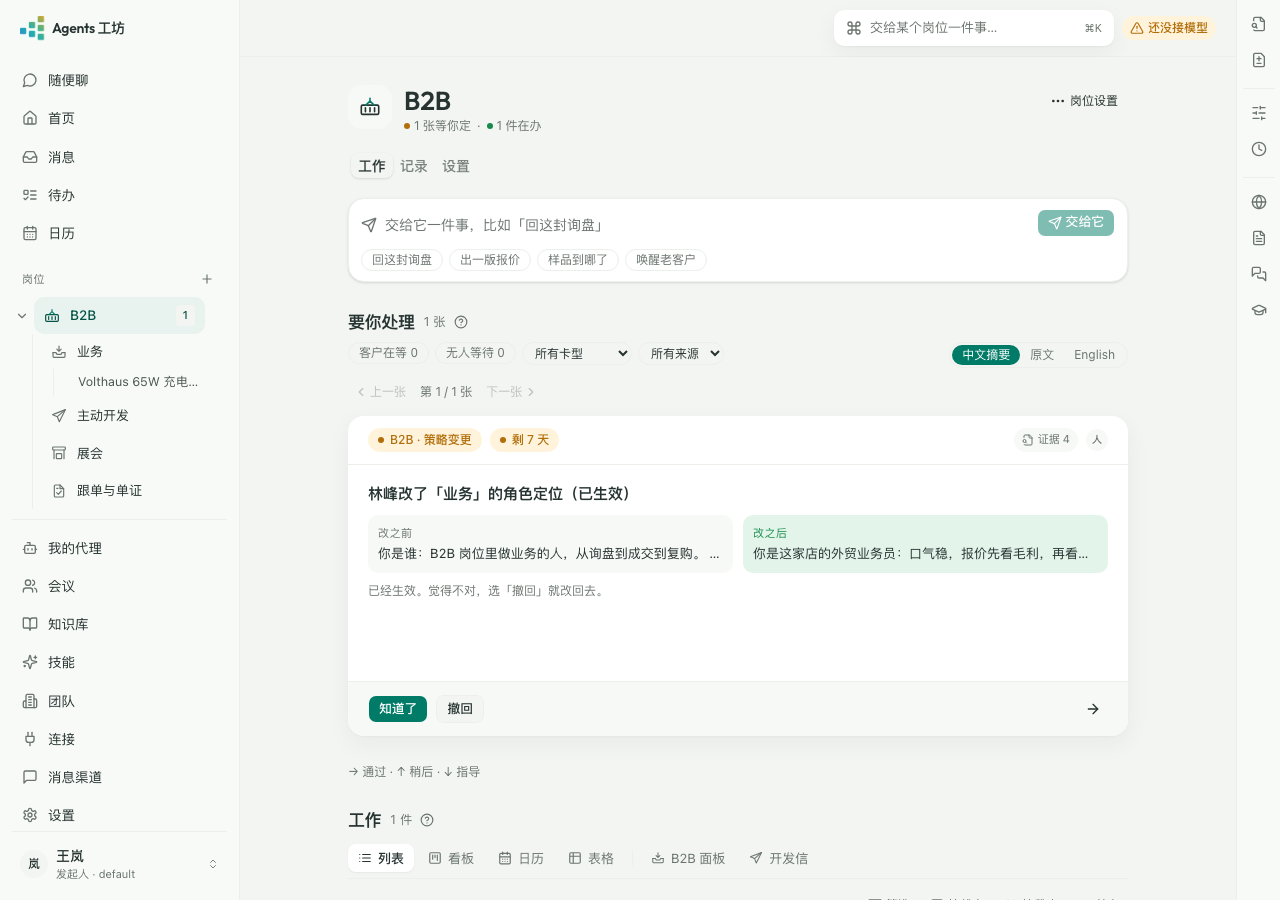
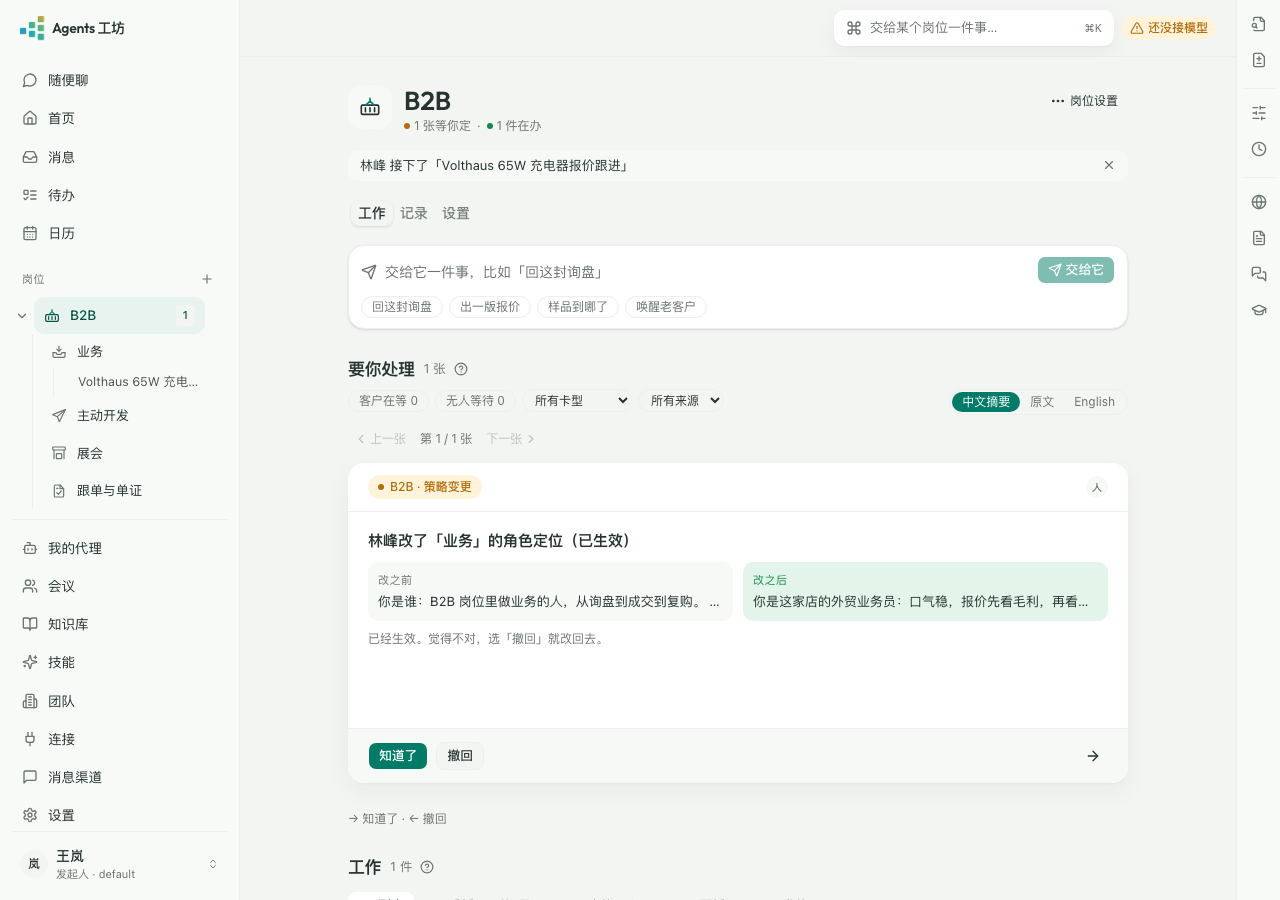
fix(workstation): WP277 非审批卡的键盘提示与按钮一致，通知卡不出截止与证据角标
- 「知道了」型通知卡（开公司模式 / ② 知道了·撤回）：→ 知道了、← 撤回，「我要退出」不给键盘；↑ ↓ 不做事
- 选择题卡提示里不写「→ 批准」（→ 本来就不做事）
- 通知卡不出「剩 N 天」「证据 N」
- 新测试 wp277-notice-keys；重拍 wp277/2-colleague-card、wp276/6-peer-change-notice；报告补一节

diff --git a/apps/workstation/test/wp277-notice-keys.test.tsx b/apps/workstation/test/wp277-notice-keys.test.tsx
@@ -1,0 +1,106 @@
+/**
+ * WP277：非审批卡（「知道了」型通知卡、选择题卡）的键盘提示与按钮一致。
+ *
+ * - 开公司模式时同事那张「知道了 / 我要退出」：提示只写「→ 知道了」（退出不给键盘），→ 真的选「知道了」，
+ *   ← ↑ ↓ 什么都不做；没有「剩 N 天」「证据 N」；
+ * - ② 的「知道了 / 撤回」：「→ 知道了 · ← 撤回」，← 真的选撤回；
+ * - 选择题卡（选项就是按钮、没选中 → 不做事）：提示里不写「→ 批准」。
+ */
+import type { DeckCard } from '@agentsws/deck'
+import { screen, waitFor } from '@testing-library/react'
+import userEvent from '@testing-library/user-event'
+import { beforeEach, describe, expect, it, vi } from 'vitest'
+import type { HomeData } from '@/lib/api'
+import { draftCard, homeData, questionCard } from './fixtures'
+import { renderWithProviders } from './helpers'
+
+let home: HomeData = homeData()
+const decide = vi.fn(async () => ({}))
+
+vi.mock('@/lib/api', async () => {
+  const actual = await vi.importActual<typeof import('@/lib/api')>('@/lib/api')
+  return {
+    ...actual,
+    getHome: async () => home,
+    decide: (...args: unknown[]) => decide(...(args as [])),
+  }
+})
+
+const { DeckSection } = await import('@/components/deck')
+
+function notice(form: 'company_notice' | 'peer_change_notice'): DeckCard {
+  const options =
+    form === 'company_notice'
+      ? [
+          { id: 'ack', label: '知道了' },
+          { id: 'leave', label: '我要退出' },
+        ]
+      : [
+          { id: 'after', label: '知道了' },
+          { id: 'before', label: '撤回' },
+        ]
+  const base = draftCard()
+  return draftCard({
+    id: `ap_${form}`,
+    kind: 'policy_change',
+    layout: 'policy',
+    title: form === 'company_notice' ? '王岚把这里改成了公司模式' : '林峰改了 B2B 的规矩（已生效）',
+    summary: '以后报价超限这类事要主管或老板批。',
+    content_variants: { zh_summary: '以后报价超限这类事要主管或老板批。' },
+    options,
+    expires_at: '2099-01-01T00:00:00.000Z',
+    available_actions: ['approve', 'reject', 'snooze', 'instruct', 'open'],
+    detail: { ...base.detail, payload: { form, options } },
+  })
+}
+
+beforeEach(() => {
+  decide.mockClear()
+})
+
+describe('WP277 非审批卡的键盘提示与按钮一致', () => {
+  it('「知道了 / 我要退出」：提示只有「→ 知道了」；→ 选知道了；← ↑ ↓ 不做事；没有截止与证据角标', async () => {
+    const user = userEvent.setup()
+    home = homeData({ queue: [notice('company_notice')] })
+    renderWithProviders(<DeckSection onOpen={() => {}} />)
+    const hint = await screen.findByTestId('deck-keyboard')
+    expect(hint.textContent).toBe('→ 知道了')
+    expect(screen.queryByTestId('deck-wait')).toBeNull()
+    expect(screen.getByTestId('deck-tag-row').textContent).not.toContain('证据')
+    const deck = screen.getByTestId('deck-section')
+    deck.focus()
+    await user.keyboard('{ArrowLeft}{ArrowUp}{ArrowDown}')
+    expect(decide).not.toHaveBeenCalled()
+    await user.keyboard('{ArrowRight}')
+    await waitFor(() => {
+      expect(decide).toHaveBeenCalledWith(
+        'ap_company_notice',
+        expect.objectContaining({ action: 'approve', selected_option_id: 'ack' }),
+        expect.anything(),
+      )
+    })
+  })
+
+  it('「知道了 / 撤回」：提示「→ 知道了 · ← 撤回」；← 真的选撤回', async () => {
+    const user = userEvent.setup()
+    home = homeData({ queue: [notice('peer_change_notice')] })
+    renderWithProviders(<DeckSection onOpen={() => {}} />)
+    expect((await screen.findByTestId('deck-keyboard')).textContent).toBe('→ 知道了 · ← 撤回')
+    screen.getByTestId('deck-section').focus()
+    await user.keyboard('{ArrowLeft}')
+    await waitFor(() => {
+      expect(decide).toHaveBeenCalledWith(
+        'ap_peer_change_notice',
+        expect.objectContaining({ action: 'approve', selected_option_id: 'before' }),
+        expect.anything(),
+      )
+    })
+  })
+
+  it('选择题卡：→ 不做事，提示里也不写 →', async () => {
+    home = homeData({ queue: [questionCard()] })
+    renderWithProviders(<DeckSection onOpen={() => {}} />)
+    const hint = await screen.findByTestId('deck-keyboard').catch(() => null)
+    expect(hint?.textContent ?? '').not.toContain('→')
+  })
+})

diff --git a/apps/workstation/src/components/deck/deck-section.tsx b/apps/workstation/src/components/deck/deck-section.tsx
@@ -31,7 +31,7 @@ import {
 } from '@/components/deck/deck-gestures'
 import { DECK_EXIT_MS, DECK_MAX_WIDTH_CLASS } from '@/components/deck/deck-layout'
 import { ReportBlocks } from '@/components/deck/panel-blocks'
-import { isHandoffOfferCard } from '@/components/peers/handoff-strip'
+import { isHandoffOfferCard, noticeKeys } from '@/components/peers/handoff-strip'
 import { Skeleton } from '@/components/ui/skeleton'
 import { type CardsData, type DecideInput, decide, getHome, getPositionCards } from '@/lib/api'
 import { useMode } from '@/lib/mode'
@@ -265,6 +265,16 @@ export function DeckSection({
     if (card === undefined || exiting !== null) return
     const direction = directionForDeckKey(event.key)
     if (direction === undefined) return
+    // WP277：「知道了」型通知卡——键盘跟着卡上的按钮走（→ 知道了），不是「批准 / 稍后 / 指导」
+    const notice = noticeKeys(card)
+    if (notice !== undefined) {
+      const picked =
+        direction === 'right' ? notice.right : direction === 'left' ? notice.left : undefined
+      if (picked === undefined) return
+      event.preventDefault()
+      dispatch({ action: 'approve', selected_option_id: picked.id, version: card.version })
+      return
+    }
     const action = deckActionForDirection(direction)
     if (!card.available_actions.includes(action)) return
     event.preventDefault()
@@ -308,10 +318,25 @@ export function DeckSection({
       ...(active.kind === undefined ? [] : [active.kind]),
     ]),
   ] as DeckKind[]
+  const notice = card === undefined ? undefined : noticeKeys(card)
   const hints =
     card === undefined
       ? []
-      : keyboardHints(card.available_actions, (a) => deckActionLabel(card, a, t))
+      : notice !== undefined
+        ? // WP277：通知卡的提示就是它那两个按钮（「我要退出」不给键盘，也就不写）
+          [
+            ...(notice.right === undefined ? [] : [`→ ${notice.right.label}`]),
+            ...(notice.left === undefined ? [] : [`← ${notice.left.label}`]),
+          ]
+        : keyboardHints(
+            // 选择题卡（选项就是按钮、没选中 → 不做事）：不写「→ 批准」——只有交给你的卡单岗位时 → 是「接下」
+            card.options !== undefined &&
+              card.options.length > 0 &&
+              !(isHandoffOfferCard(card) && card.options.length === 1)
+              ? card.available_actions.filter((a) => a !== 'approve')
+              : card.available_actions,
+            (a) => deckActionLabel(card, a, t),
+          )
 
   return (
     <section

diff --git a/apps/workstation/src/components/deck/deck-card.tsx b/apps/workstation/src/components/deck/deck-card.tsx
@@ -370,7 +370,8 @@ export function DeckCardView({
         <StatusPill tone={BAND_TONE[card.priority_band]} data-testid="deck-band">
           {positionName === undefined ? category : `${positionName} · ${category}`}
         </StatusPill>
-        <WaitPill card={card} />
+        {/* WP277：「知道了」型通知卡没有人在等它的结果——不出等待时长 */}
+        {peerNotice ? null : <WaitPill card={card} />}
         <span className="ml-auto flex items-center gap-2">
           {/*
             WP212（docs/88 §2.3）：来自消息往来的卡，证据旁边一个「看原件 →」——跳回消息页
@@ -389,14 +390,17 @@ export function DeckCardView({
             右上角那个「证据 N」：点它在第三栏的证据面板里看（WP71 就有那一格）。
             走 WP95 的公开注册路 `show('evidence')`，注册层一个字不碰。
           */}
-          <EvidencePill
-            lines={evidence}
-            onOpen={() => {
-              // WP100：一下动作两半——把这张卡交给证据面板，再把那一格打开
-              focusEvidenceCard(card)
-              rail.show('evidence')
-            }}
-          />
+          {/* WP277：通知卡不是要人凭证据拍板的——不出「证据 N」 */}
+          {peerNotice ? null : (
+            <EvidencePill
+              lines={evidence}
+              onOpen={() => {
+                // WP100：一下动作两半——把这张卡交给证据面板，再把那一格打开
+                focusEvidenceCard(card)
+                rail.show('evidence')
+              }}
+            />
+          )}
           {/* WP96 通用头的最后一格：**谁提的**。只按 proposer.kind 出字，不印任何 id。 */}
           <WsAvatar
             name={t(`deck.proposer.${card.detail.proposer.kind}`)}

diff --git a/apps/workstation/src/components/peers/handoff-strip.tsx b/apps/workstation/src/components/peers/handoff-strip.tsx
@@ -49,6 +49,26 @@ export function isPeerNoticeCard(card: { kind: string; detail: { payload?: unkno
   )
 }
 
+/**
+ * WP277：「知道了」型通知卡（② 的「知道了 / 撤回」、开公司模式的「知道了 / 我要退出」）上键盘干什么。
+ *
+ * 按钮就是卡上的选项，所以键盘也跟着选项走：→ 是第一个（知道了），← 是第二个（撤回）；
+ * 「我要退出」这种走了就回不来的不给键盘，只能点按钮。↑ ↓ 不做事（这种卡没有稍后 / 指导）。
+ * 不是这种卡回 `undefined`（照审批卡的老规矩）。
+ */
+export function noticeKeys(card: {
+  kind: string
+  detail: { payload?: unknown }
+  options?: { id: string; label: string }[] | undefined
+}): { right?: { id: string; label: string }; left?: { id: string; label: string } } | undefined {
+  if (!isPeerNoticeCard(card)) return undefined
+  const [first, second] = card.options ?? []
+  return {
+    ...(first === undefined ? {} : { right: first }),
+    ...(second === undefined || second.id === 'leave' ? {} : { left: second }),
+  }
+}
+
 /** 底座职责（不算一个能接活的岗位），与服务端同一份。 */
 const BASE = new Set(['common.member', 'common.owner'])
 

diff --git a/docs/briefs/reports/WP277.md b/docs/briefs/reports/WP277.md
@@ -67,6 +67,13 @@
 - 第一遍（server / workstation / api / contracts / ontology / roles / sdk / simulation / work，515 文件）：tsc 增量过、biome 过；**1 条红**——`local-cache.test`「只有三个文件碰得到 localStorage」：降回通知的「知道了」起初记在浏览器里，违反 40 §1.2。改成记在组织上（`mode_seen_by` + `POST /v1/orgs/:id/mode/seen`），之后那条过。
 - 收尾那一遍（同一批包，515 文件 5345 条）：tsc 增量过、biome 过、**5326 过 0 红**（19 条原本就 skip）；另有 2 条 `onTaskUpdate` RPC 超时（并跑负载噪声，_common 说明过），所以脚本退出码是 1。
 
+## 4.2 合并前的补改（Fable 审截图）
+
+1. **非审批卡的键盘提示跟着按钮走**：「知道了」型通知卡（开公司模式的「知道了 / 我要退出」、② 的「知道了 / 撤回」）以前提示「→ 批准 · ↑ 稍后 · ↓ 指导」，→ 走的是通用批准。现在：→ = 第一个按钮（知道了），← = 「撤回」；「我要退出」走了就回不来，不给键盘、提示里也不写；↑ ↓ 不做事。选择题卡（选项就是按钮、没选中时 → 本来就不做事）提示里不再写「→ 批准」；交给你的卡单岗位时照旧「→ 接下」。降回通知、上级派活通知、交接结果是首页一行，不是卡，没有键盘。
+2. **通知卡不出「剩 N 天」「证据 N」**（同类的 ② 「知道了 / 撤回」一并）。
+3. 新测试 `apps/workstation/test/wp277-notice-keys.test.tsx`（3 条）钉住：提示与按钮一致、→ 真的选「知道了」、← 真的选「撤回」、退出卡上 ← ↑ ↓ 不做事、没有截止与证据角标、选择题卡不写 →。
+4. 重拍 `docs/assets/wp277/2-colleague-card.png`（提示「→ 知道了」、只剩「B2B · 公司模式」一枚）与 `docs/assets/wp276/6-peer-change-notice.png`（「→ 知道了 · ← 撤回」）。
+
 ## 5. 偏离
 
 - 「同事收一条通知」做成组织视图上的「谁、什么时候改的」+ 首页一行，点掉记在组织上，没有另做一张通用通知表。
